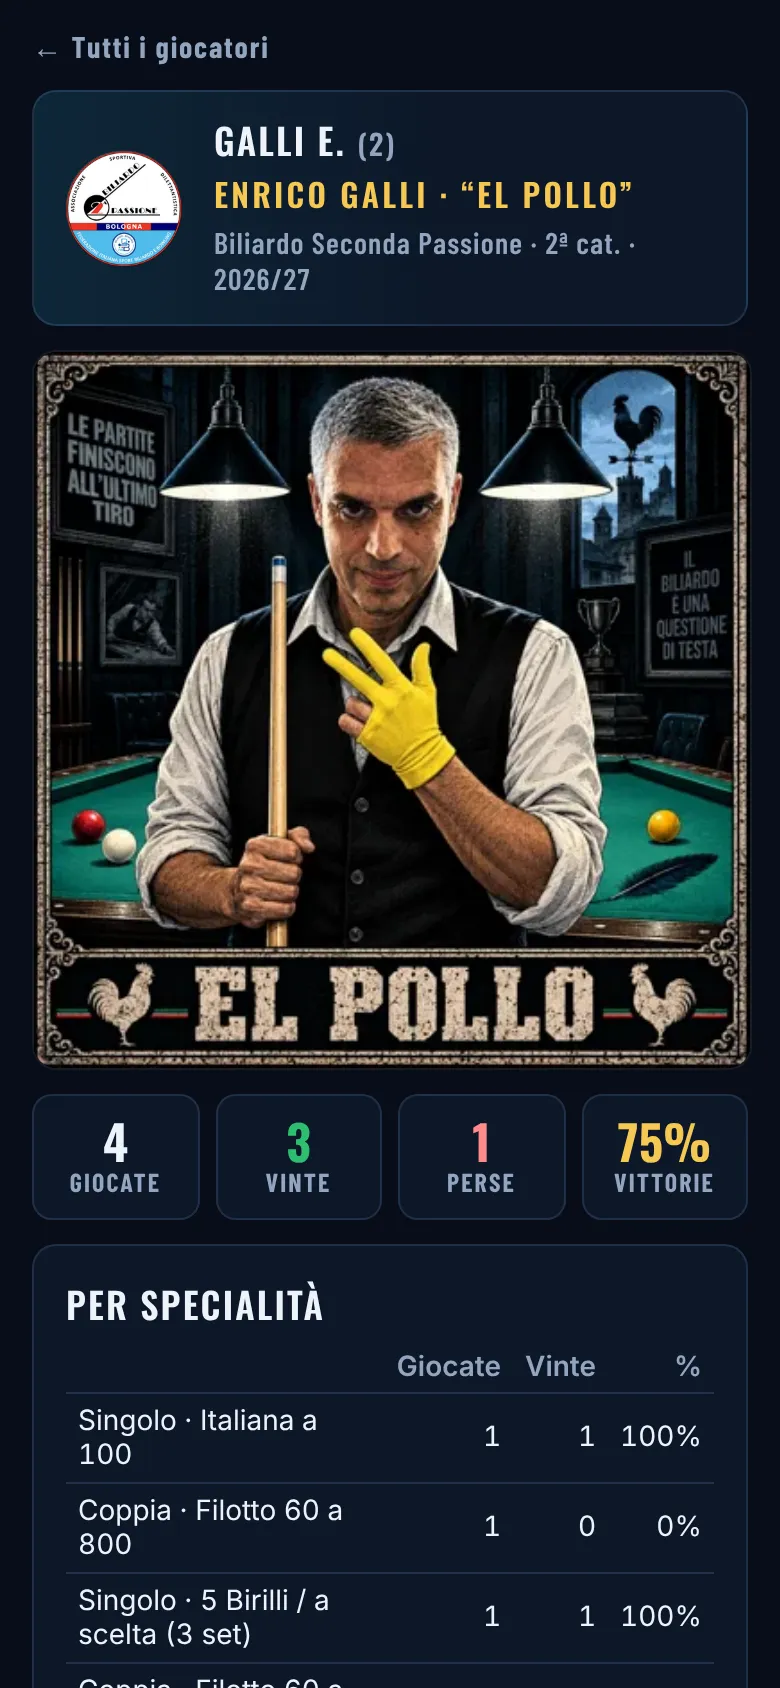
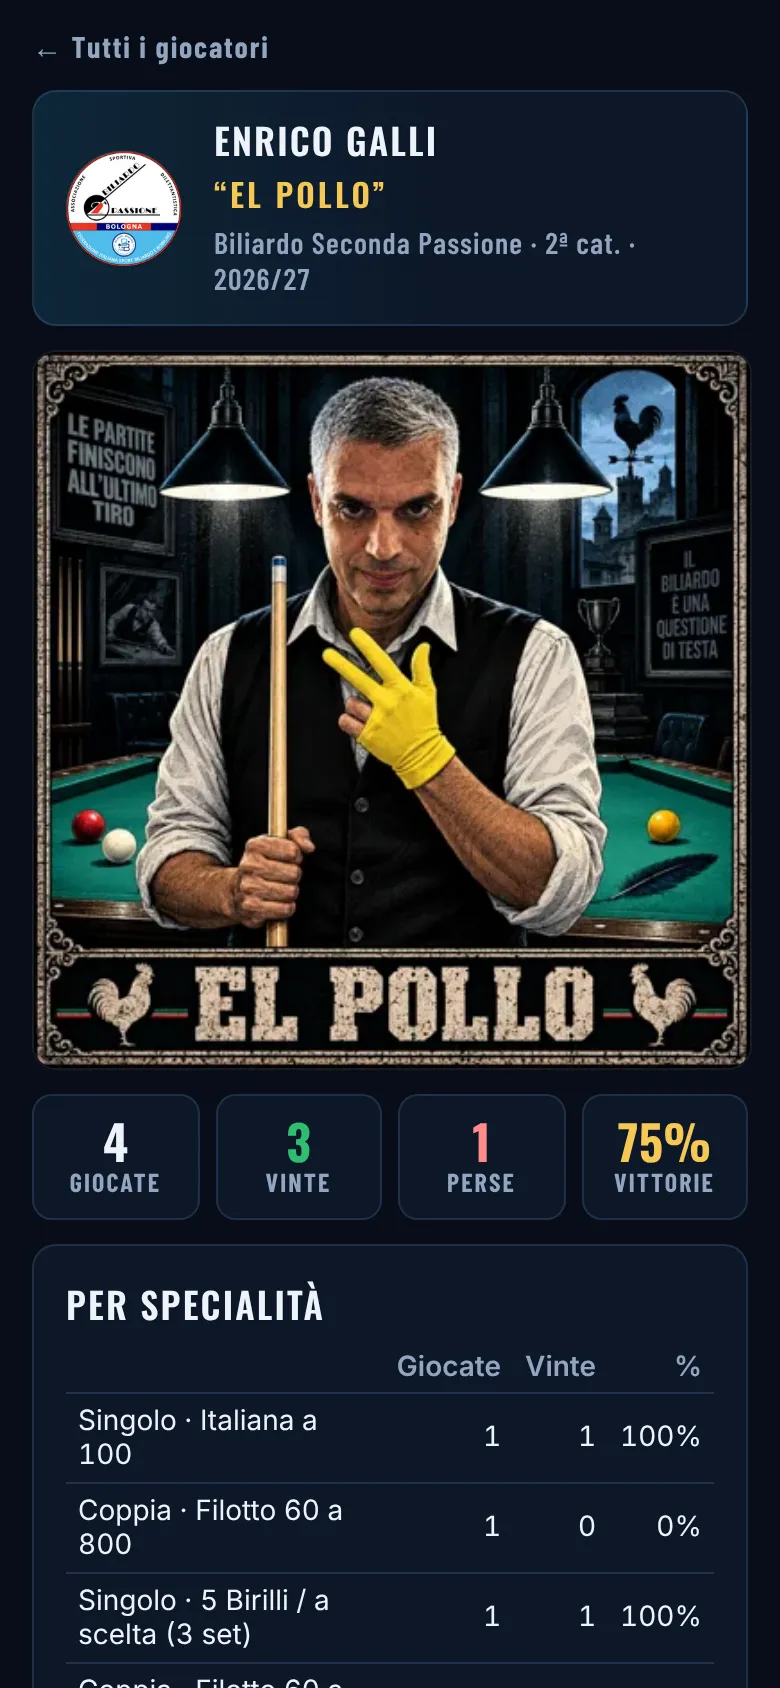
Pagina del giocatore: titolo con nome e cognome per esteso, soprannome sotto, categoria solo nella riga informativa
Claude-Session: https://claude.ai/code/session_01EqSLKnxJMSCgy9CtMYkmaD

Changed region(s): [[0.2769, 0.0616, 0.5538, 0.1232], [0.5846, 0.0924, 0.8, 0.1232]]

diff --git a/index.html b/index.html
@@ -17,12 +17,12 @@
 <meta name="apple-mobile-web-app-title" content="Live 2P">
 <link rel="preconnect" href="https://fonts.gstatic.com" crossorigin>
 <link rel="stylesheet" href="https://fonts.googleapis.com/css2?family=Barlow+Condensed:wght@500;600;700;800&family=Oswald:wght@600;700&display=swap">
-<link rel="stylesheet" href="css/base.css?v=2026110502">
-<link rel="stylesheet" href="css/elenco-regia.css?v=2026110502">
-<link rel="stylesheet" href="css/torneo.css?v=2026110502">
-<link rel="stylesheet" href="css/set-andamento.css?v=2026110502">
-<link rel="stylesheet" href="css/anagrafica.css?v=2026110502">
-<link rel="stylesheet" href="css/overlay.css?v=2026110502">
+<link rel="stylesheet" href="css/base.css?v=2026110503">
+<link rel="stylesheet" href="css/elenco-regia.css?v=2026110503">
+<link rel="stylesheet" href="css/torneo.css?v=2026110503">
+<link rel="stylesheet" href="css/set-andamento.css?v=2026110503">
+<link rel="stylesheet" href="css/anagrafica.css?v=2026110503">
+<link rel="stylesheet" href="css/overlay.css?v=2026110503">
 </head>
 <body>
 <div id="app"></div>
@@ -69,22 +69,22 @@
 <div id="sug" hidden role="listbox" aria-label="Giocatori"></div>
 <script src="https://www.gstatic.com/firebasejs/10.12.2/firebase-app-compat.js"></script>
 <script src="https://www.gstatic.com/firebasejs/10.12.2/firebase-database-compat.js"></script>
-<script src="js/config.js?v=2026110502"></script>
-<script src="js/formule.js?v=2026110502"></script>
-<script src="js/util.js?v=2026110502"></script>
-<script src="js/gara.js?v=2026110502"></script>
-<script src="js/dati.js?v=2026110502"></script>
-<script src="js/vista-gara.js?v=2026110502"></script>
-<script src="js/vista-elenco.js?v=2026110502"></script>
-<script src="js/render.js?v=2026110502"></script>
-<script src="js/interazioni.js?v=2026110502"></script>
-<script src="js/anagrafica.js?v=2026110502"></script>
-<script src="js/nomi.js?v=2026110502"></script>
-<script src="js/controllo-nomi.js?v=2026110502"></script>
-<script src="js/giocatori.js?v=2026110502"></script>
-<script src="js/overlay.js?v=2026110502"></script>
-<script src="js/regia-barra.js?v=2026110502"></script>
-<script src="js/avvio.js?v=2026110502"></script>
+<script src="js/config.js?v=2026110503"></script>
+<script src="js/formule.js?v=2026110503"></script>
+<script src="js/util.js?v=2026110503"></script>
+<script src="js/gara.js?v=2026110503"></script>
+<script src="js/dati.js?v=2026110503"></script>
+<script src="js/vista-gara.js?v=2026110503"></script>
+<script src="js/vista-elenco.js?v=2026110503"></script>
+<script src="js/render.js?v=2026110503"></script>
+<script src="js/interazioni.js?v=2026110503"></script>
+<script src="js/anagrafica.js?v=2026110503"></script>
+<script src="js/nomi.js?v=2026110503"></script>
+<script src="js/controllo-nomi.js?v=2026110503"></script>
+<script src="js/giocatori.js?v=2026110503"></script>
+<script src="js/overlay.js?v=2026110503"></script>
+<script src="js/regia-barra.js?v=2026110503"></script>
+<script src="js/avvio.js?v=2026110503"></script>
 
 </body>
 </html>

diff --git a/js/giocatori.js b/js/giocatori.js
@@ -51,9 +51,10 @@ function giocHTML(){
   const p = ANAG[PCODE];
   if(!p) return `<main class="wrap">${back}<p class="empty">Giocatore non trovato.</p></main>`;
   const y0 = stagione(), r = rowAt(p, y0), sq = (SQUADRE||{})[r.sq];
-  document.title = tabName(p) + " · Biliardo Seconda Passione";
-  let h = `<main class="wrap">${back}<section class="phead">${sqLogo(r.sq, sq)}<div><div class="comp">${esc(tabName(p))}${r.cat ? ` <span class="pc">(${esc(r.cat)})</span>` : ""}</div>
-    <div class="sub">${esc([p.nome, p.cognome].filter(Boolean).join(" "))}${p.sopr ? ` · “${esc(p.sopr)}”` : ""}</div>
+  const full = [p.nome, p.cognome].filter(Boolean).join(" ") || tabName(p);
+  document.title = full + " · Biliardo Seconda Passione";
+  let h = `<main class="wrap">${back}<section class="phead">${sqLogo(r.sq, sq)}<div><div class="comp">${esc(full)}</div>
+    ${p.sopr ? `<div class="sub">“${esc(p.sopr)}”</div>` : ""}
     <div class="pinfo">${esc(sqName(r.sq))} · ${esc(catLabel(r.cat) || "categoria non indicata")} · ${stagLabel(anniOf(p).includes(y0) ? y0 : anniOf(p).at(-1))}</div></div></section>`;
   if(p.foto){ const u = fotoGet(PCODE, p, ()=>{ if(mode==="gioc") render(); });
     h += u ? `<figure class="pfoto"><img src="${esc(u)}" alt="${esc([p.nome, p.cognome].filter(Boolean).join(" "))}"></figure>` : u===null ? `<figure class="pfoto"><span></span></figure>` : ""; }
